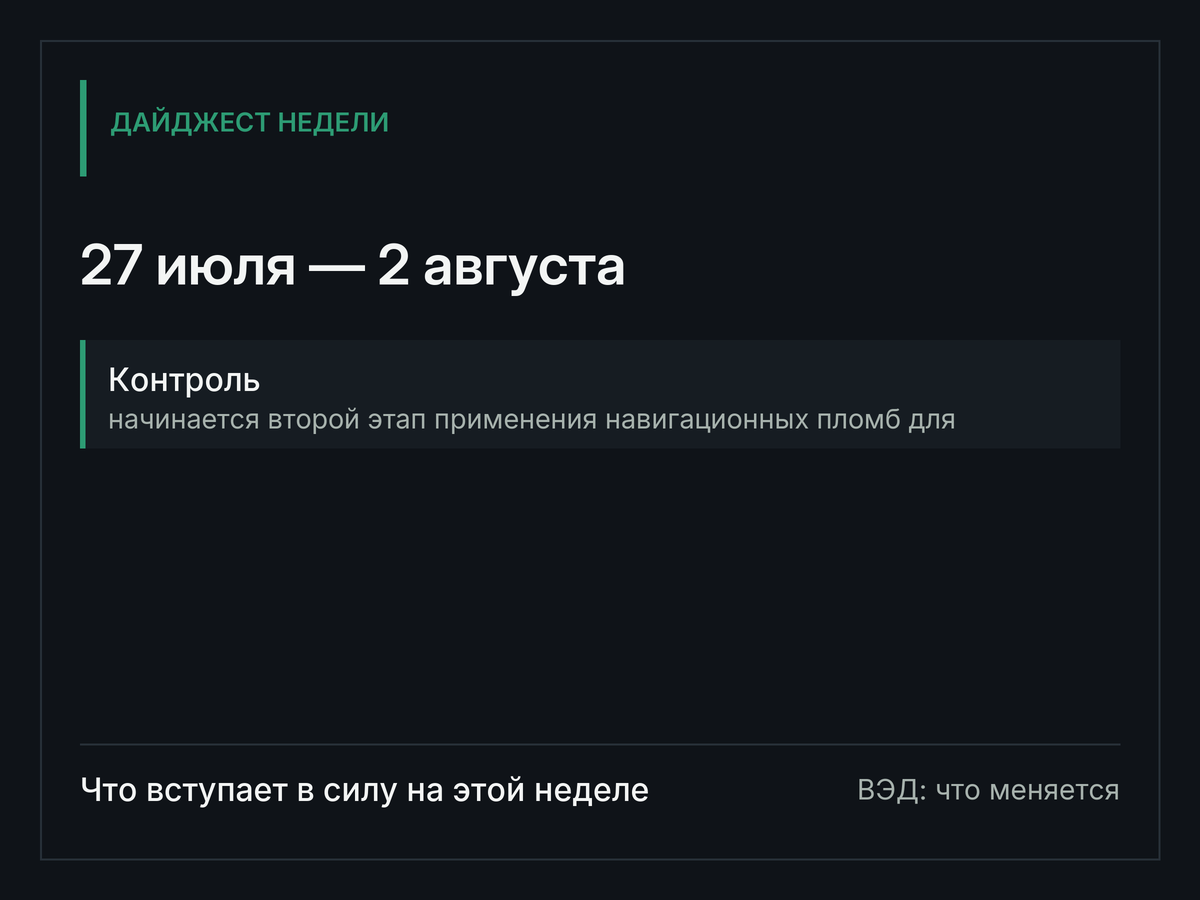
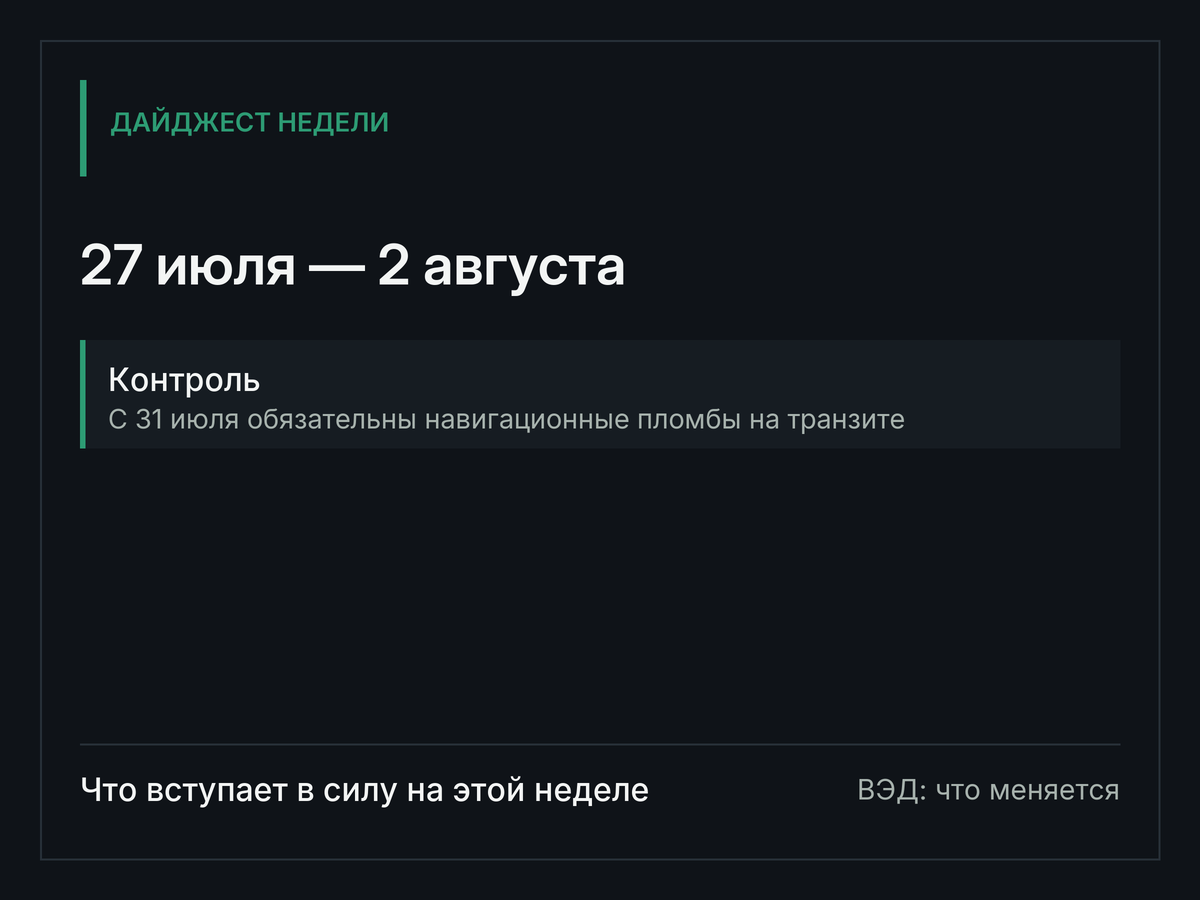
напоминания: дедуп по сюжету из контура памяти, обрезка длинных значений

Changed region(s): [[0.0925, 0.4356, 0.8017, 0.4978]]

diff --git a/tools/build_reminders.py b/tools/build_reminders.py
@@ -23,6 +23,7 @@ build_outbox.py. Отдельных обращений к модели нет - 
 """
 
 import argparse
+import re
 import json
 import os
 import pathlib
@@ -113,7 +114,11 @@ def reminder_text(c: dict, eff: date, days: int, url: str, src_text: str = "") -
     if aud:
         lines += ["", "Кого касается: " + aud]
 
-    old, new = c.get("value_old") or "", c.get("value_new") or ""
+    def _short(v, n=90):
+        v = re.sub(r"\s+", " ", (v or "").strip())
+        return v if len(v) <= n else v[:n].rsplit(" ", 1)[0] + "…"
+
+    old, new = _short(c.get("value_old")), _short(c.get("value_new"))
     if new:
         if old:
             lines += ["", "Значение: было %s, станет %s." % (old, new)]
@@ -268,6 +273,12 @@ def main() -> int:
             session.execute(text("SELECT raw_item_id, kind "
                                  "FROM ved_reminders_sent"))}
 
+    SUBJ = {}
+    for _r, _s in session.execute(text(
+            "SELECT raw_item_id, subject_id FROM ved_subject_items")):
+        SUBJ[str(_r)] = str(_s)
+    seen_subj = set()
+
     added = 0
     for raw_id, eff, c, url in sorted(items, key=lambda x: x[1]):
         days = (eff - today).days
@@ -285,6 +296,11 @@ def main() -> int:
         if (str(raw_id), kind) in sent:
             continue
 
+        _sj = SUBJ.get(str(raw_id))
+        if _sj and (_sj, kind) in seen_subj:
+            continue
+        if _sj:
+            seen_subj.add((_sj, kind))
         text_ = reminder_text(c, eff, days, url, SRC.get(raw_id, ""))
         print("=" * 55)
         print("[%s, через %d дн.]" % (kind, days))
